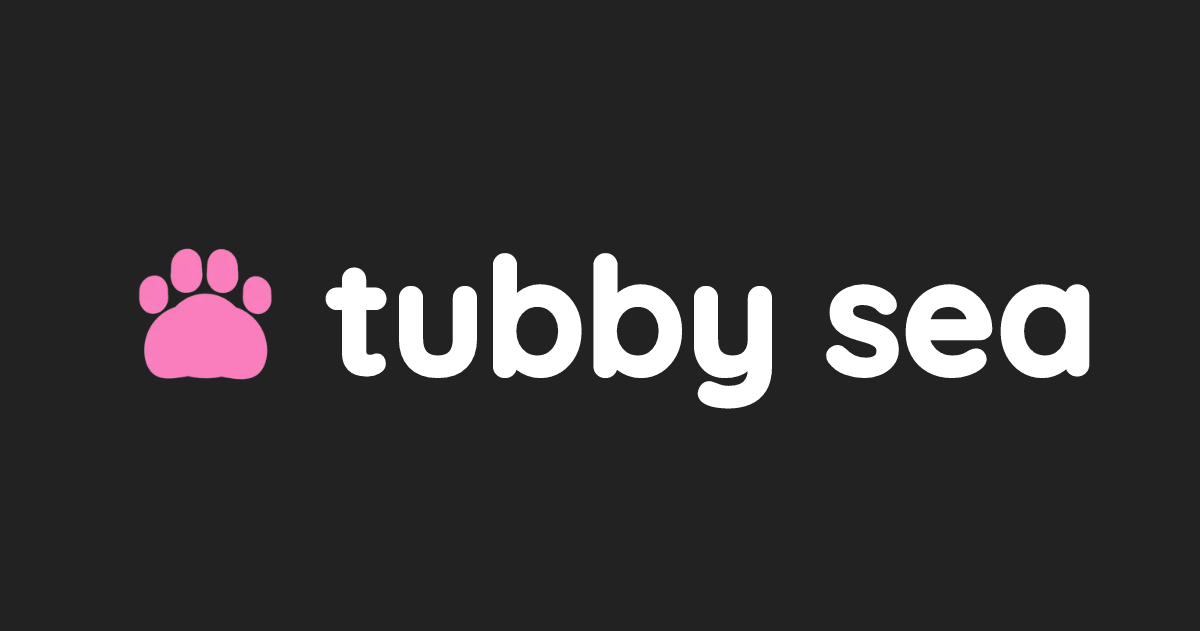
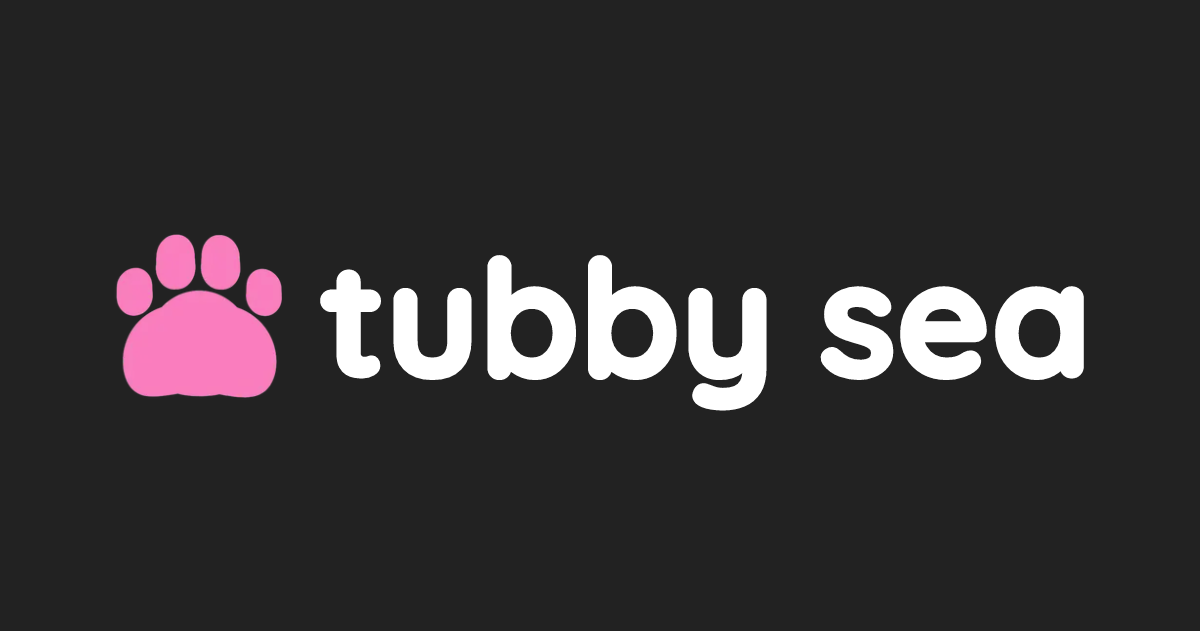
better seo (#1)
* move metatags to _document.js

* update og image

diff --git a/components/Layout/index.tsx b/components/Layout/index.tsx
@@ -1,5 +1,4 @@
 import * as React from 'react'
-import Head from 'next/head'
 import Link from 'next/link'
 import { useRouter } from 'next/router'
 import Image from 'next/image'
@@ -22,33 +21,6 @@ export default function Layout({ children, className, ...props }: ILayoutProps) 
 
 	return (
 		<>
-			<Head>
-				<meta
-					name="description"
-					content="tubby sea is a lending protocol that allows you to deposit tubby cats in order to borrow ETH."
-				/>
-
-				<meta property="og:title" content="tubby sea" />
-				<meta property="og:type" content="website" />
-				<meta property="og:site_name" content="tubby sea" />
-				<meta
-					property="og:description"
-					content="tubby sea is a lending protocol that allows you to deposit tubby cats in order to borrow ETH."
-				/>
-				<meta property="og:image" content="https://borrow.tubbysea.com/og.png" />
-				<meta property="og:url" content="https://borrow.tubbysea.com" />
-
-				<meta name="twitter:card" content="summary_large_image" />
-				<meta property="twitter:domain" content="borrow.tubbysea.com" />
-				<meta name="twitter:title" content="tubby sea" />
-				<meta
-					name="twitter:description"
-					content="tubby sea is a lending protocol that allows you to deposit tubby cats in order to borrow ETH."
-				/>
-				<meta name="twitter:image" content="https://borrow.tubbysea.com/og.png" />
-				<meta property="twitter:url" content="https://borrow.tubbysea.com" />
-			</Head>
-
 			<header className={styles.header}>
 				<nav className={styles.nav}>
 					<div className={styles.logoWrapper}>

diff --git a/pages/_document.js b/pages/_document.js
@@ -13,6 +13,30 @@ export default function Document() {
 				<link rel="icon" type="image/png" sizes="16x16" href="/favicon/favicon-16x16.png" />
 				<link rel="manifest" href="/favicon/site.webmanifest" />
 				<link rel="preload" href="/Quicksand.ttf" as="font" type="font/ttf" crossOrigin="anonymous" />
+				<meta
+					name="description"
+					content="tubby sea is a lending protocol that allows you to deposit tubby cats in order to borrow ETH."
+				/>
+
+				<meta property="og:title" content="tubby sea" />
+				<meta property="og:type" content="website" />
+				<meta property="og:site_name" content="tubby sea" />
+				<meta
+					property="og:description"
+					content="tubby sea is a lending protocol that allows you to deposit tubby cats in order to borrow ETH."
+				/>
+				<meta property="og:image" content="https://borrow.tubbysea.com/og.png" />
+				<meta property="og:url" content="https://borrow.tubbysea.com" />
+
+				<meta name="twitter:card" content="summary_large_image" />
+				<meta property="twitter:domain" content="borrow.tubbysea.com" />
+				<meta name="twitter:title" content="tubby sea" />
+				<meta
+					name="twitter:description"
+					content="tubby sea is a lending protocol that allows you to deposit tubby cats in order to borrow ETH."
+				/>
+				<meta name="twitter:image" content="https://borrow.tubbysea.com/og.png" />
+				<meta property="twitter:url" content="https://borrow.tubbysea.com" />
 			</Head>
 			<body>
 				<Main />

diff --git a/pages/og.tsx b/pages/og.tsx
@@ -1,0 +1,34 @@
+import type { NextPage } from 'next'
+import Image from 'next/image'
+import * as React from 'react'
+
+const OG: NextPage = () => {
+	return (
+		<div style={{ height: '100vh', width: '100vw', background: 'white', display: 'grid', placeItems: 'center' }}>
+			<div
+				style={{
+					height: '631px',
+					width: '1200px',
+					background: '#222222',
+					display: 'flex',
+					alignItems: 'center',
+					justifyContent: 'center'
+				}}
+			>
+				<Image src="/paw.png" alt="tubbysea" height="250px" width="250px" />
+				<h1
+					style={{
+						fontFamily: 'Quicksand',
+						fontVariationSettings: "'wght' 700",
+						fontSize: '10rem',
+						marginRight: '37px'
+					}}
+				>
+					tubby sea
+				</h1>
+			</div>
+		</div>
+	)
+}
+
+export default OG
